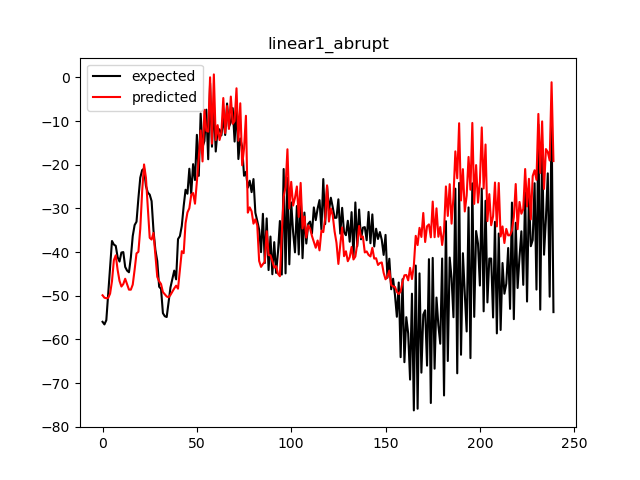
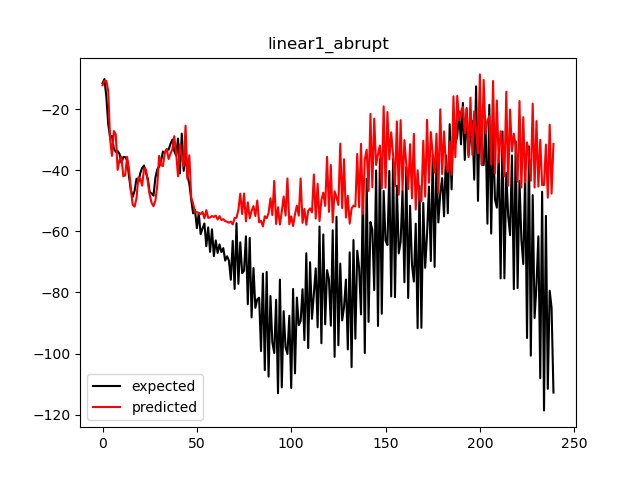
LSTM discard first run results.

diff --git a/global_run/lstm_discard.py b/global_run/lstm_discard.py
@@ -21,7 +21,7 @@ def smape(predictions, actual):
 
 def plot_save(predictions, actual, bkp, name, setback):
 	plt.plot(actual, label = "Expected", color = "black")
-	plt.plot(predictions, label = "Predicted", color = "red")
+	plt.plot(predictions.reshape(predictions.shape[0],1), label = "Predicted", color = "red")
 	plt.legend()
 
 	#saving the plots
@@ -92,6 +92,7 @@ def main(iteration, name):
 	#70/30 train/test split
 	split = int(0.7*len(data))
 	train, test = data[:split], data[split:]
+	setback = len(train)
 
 	#get breakpoints for train set
 	history = functions.ada_preprocessing(train)
@@ -152,7 +153,7 @@ def main(iteration, name):
 	smape_dict[name] = error
 	print("SMAPE: {:.4f}".format(error))
 
-	plot_save(predictions, test, bkp, "results/lstm/discard/"+name, setback)
+	plot_save(np.asarray(predictions), test, bkp, "results/lstm/discard/"+name, setback)
 
 	#saving the dictionary containing errors
 	dict_path = "results/lstm/discard/errors/error"+str(iteration)+name+".txt"

diff --git a/global_run/nn_first_call.py b/global_run/nn_first_call.py
@@ -10,9 +10,9 @@ import condrnn
 if __name__ == '__main__':
 	iteration = 0
 	processes = []
-	list_of_functions = [lstm_retrain.main, lstm_discard.main, condrnn.main]
+	list_of_functions = [lstm_discard.main]
 	list_of_names = ["linear1_abrupt", "linear2_abrupt", "linear3_abrupt", "nonlinear1_abrupt", "nonlinear2_abrupt", "nonlinear3_abrupt"]
-
+	#list_of_names = ["linear1_abrupt"]
 	for fun in list_of_functions:
 		for name in list_of_names:
 			p = multiprocessing.Process(target=fun, args=(iteration,name, ))

diff --git a/global_run/condrnn.py b/global_run/condrnn.py
@@ -134,7 +134,7 @@ def main(iteration, name):
 	history.drop(["transition", "steps_to_bkp", "steps_since_bkp"], axis = 1, inplace = True)
 
 	#get the dataframe for new test observation
-	train.append(test[i])
+	train.append(test[0])
 	test_row = manual_preprocessing(train, history.tail(1))
 
 	#change train and test into form appropriate for CondRNN
